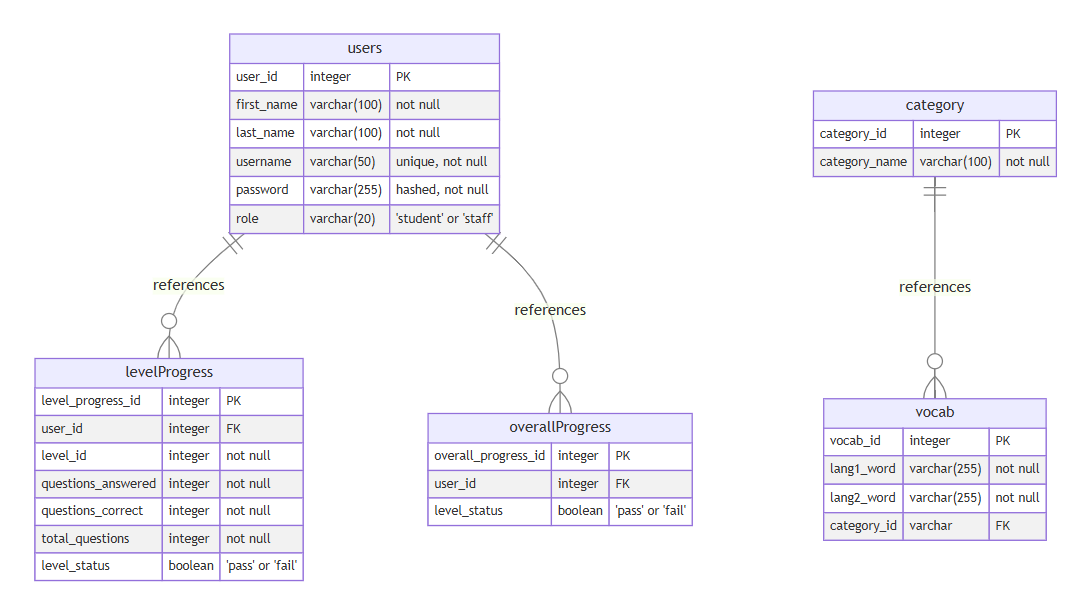
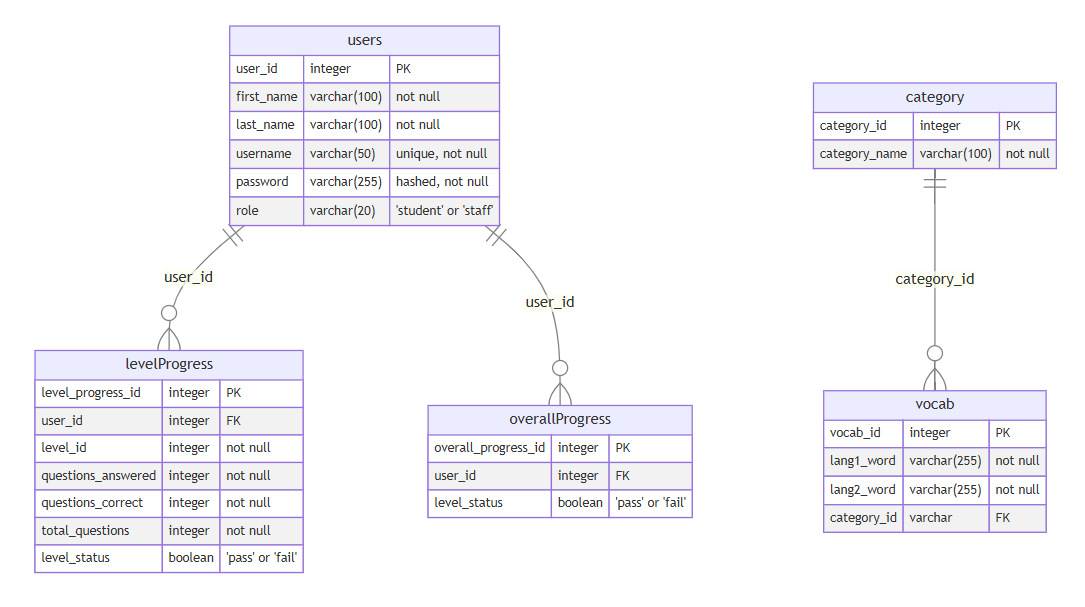
Updated readme

diff --git a/frontend/mermaidErd.html b/frontend/mermaidErd.html
@@ -13,9 +13,9 @@
 
   <pre class="mermaid">
 erDiagram
-    users ||--o{ levelProgress: references
-    users ||--O{ overallProgress: references
-    category ||--o{ vocab: references
+    users ||--o{ levelProgress: user_id
+    users ||--O{ overallProgress: user_id
+    category ||--o{ vocab: category_id
         
 
     users {

diff --git a/README.md b/README.md
@@ -13,7 +13,16 @@ The aim of the app is to provide fun and engaging way of learning a non-STEM sub
 - [ ] As a teacher, I want a simple language learning app for my students to use, so that they can retain key phrases through repetition with increasing challenges, while not getting bored. This app should provide a respite from facing lots of content in non-STEM subjects like languages or geography.
 - [ ] As a product owner, I want a simple, fun language learning app for teenagers, so that an alternative is available when compared to other apps that contain an overwhelming amount of content and visuals.
 
+A visualisation of the importance of each stakeholder can be viewed in this stakeholder analysis diagram. The teacher and student remain the most fundamentally importance in utilising the app accordingly.
+
+<img src="frontend/assets/VivaLingo_stakeholderanalysischart_screenshot.png">
+
+
+## Risk Analysis
+
 ## Entity Relationship Diagram (ERD)
 
+The database structured for this app can be visualised as follows:
 
 <img src="frontend/assets/VivaLingo_ERD_screenshot.png">
+
